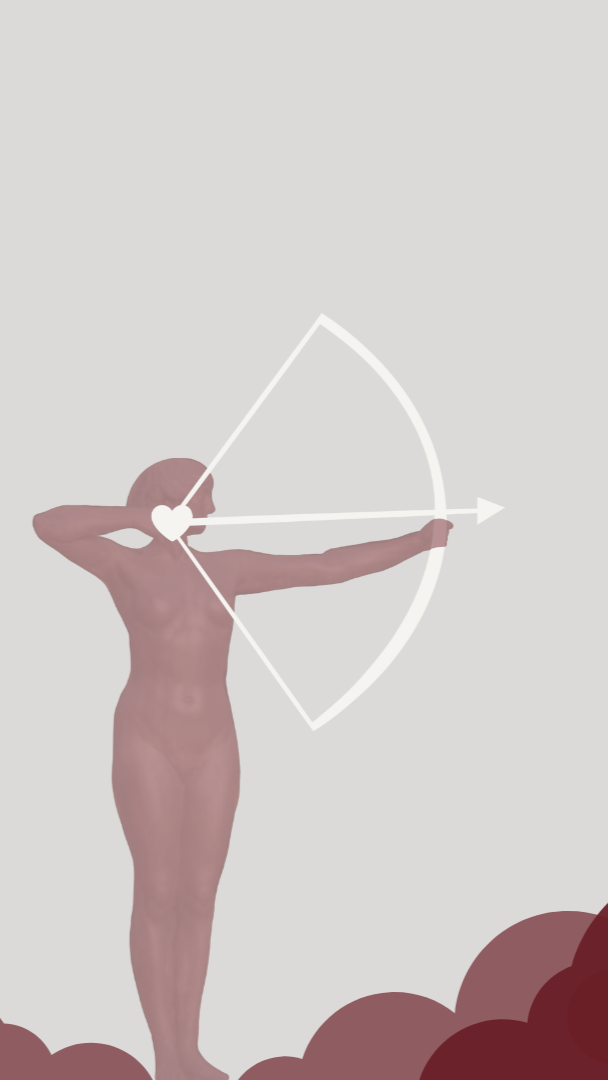
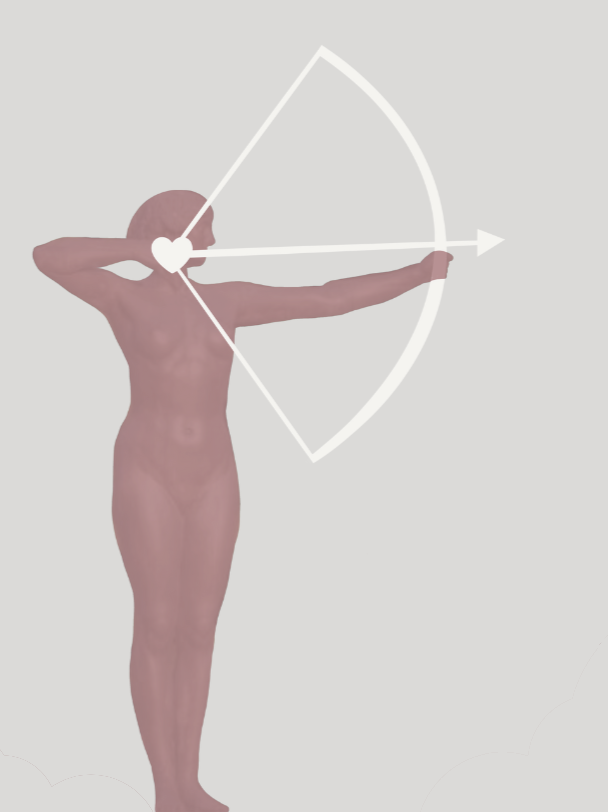
small fixes

diff --git a/fe/lib/quiz_view.dart b/fe/lib/quiz_view.dart
@@ -192,67 +192,67 @@ class _QuizViewScreenState extends State<QuizViewScreen> {
       final correctAnswerIndex = question.validAnswerIndex;
 
       return SingleChildScrollView(
-        child: Column(
-          children: [
-            SizedBox(
-              width: double.infinity,
-              height: 200,
-              child: Image.network(
-                question.imageUrl,
-                fit: BoxFit.cover,
-                errorBuilder: (context, error, stackTrace) {
-                  return Container(
-                    color: Colors.grey[300],
-                    child: const Icon(Icons.broken_image, size: 50),
-                  );
-                },
-              ),
-            ),
-            Padding(
-              padding: const EdgeInsets.all(16),
-              child: Column(
-                children: [
-                  Text(
-                    question.question,
-                    style: const TextStyle(
-                      fontSize: 18,
-                      fontWeight: FontWeight.bold,
-                      color: Color(0xFF6B1D27),
-                    ),
-                    textAlign: TextAlign.center,
+        child: Padding(
+          padding: EdgeInsets.fromLTRB(16, 16, 16, 0),
+          child: Column(
+            children: [
+              Padding(
+                padding: const EdgeInsets.symmetric(vertical: 20),
+                child: Container(
+                  width: double.infinity,
+                  height: 200,
+                  child: Image.network(
+                    question.imageUrl,
+                    fit: BoxFit.cover,
+                    errorBuilder: (context, error, stackTrace) {
+                      return Container(
+                        color: Colors.grey[300],
+                        child: const Icon(Icons.broken_image, size: 50),
+                      );
+                    },
                   ),
-
-                  const SizedBox(height: 24),
-
-                  ...List.generate(question.answers.length, (index) {
-                    final isSelected = _selectedAnswer == index;
-                    final isCorrect = index == correctAnswerIndex;
-
-                    return Padding(
-                      padding: const EdgeInsets.only(bottom: 12),
-                      child: AnswerOption(
-                        letter: String.fromCharCode(65 + index),
-                        text: question.answers[index],
-                        isSelected: isSelected,
-                        isCorrect: isCorrect,
-                        hasAnswered: _hasAnswered,
-                        onTap: (_hasAnswered || _isCompleted)
-                            ? null
-                            : () => _checkAnswer(index),
-                      ),
-                    );
-                  }),
-
-                  const SizedBox(height: 16),
-
-                  FunFactCard(
-                    funFact: question.curiocity,
-                    wikipediaUrl: 'https://visitbydgoszcz.pl/pl/',
-                  ),
-                ],
+                ),
               ),
-            ),
-          ],
+
+              Text(
+                question.question,
+                style: const TextStyle(
+                  fontSize: 18,
+                  fontWeight: FontWeight.bold,
+                  color: Color(0xFF6B1D27),
+                ),
+                textAlign: TextAlign.center,
+              ),
+
+              const SizedBox(height: 24),
+
+              ...List.generate(question.answers.length, (index) {
+                final isSelected = _selectedAnswer == index;
+                final isCorrect = index == correctAnswerIndex;
+
+                return Padding(
+                  padding: const EdgeInsets.only(bottom: 12),
+                  child: AnswerOption(
+                    letter: String.fromCharCode(65 + index),
+                    text: question.answers[index],
+                    isSelected: isSelected,
+                    isCorrect: isCorrect,
+                    hasAnswered: _hasAnswered,
+                    onTap: (_hasAnswered || _isCompleted)
+                        ? null
+                        : () => _checkAnswer(index),
+                  ),
+                );
+              }),
+
+              const SizedBox(height: 16),
+
+              FunFactCard(
+                funFact: question.curiocity,
+                wikipediaUrl: 'https://visitbydgoszcz.pl/pl/',
+              ),
+            ],
+          ),
         ),
       );
     }
@@ -260,46 +260,46 @@ class _QuizViewScreenState extends State<QuizViewScreen> {
     // If the step is NOT a quiz → Display task-style screen
     final step = _stepData as api.Task; // Guaranteed not null here
     return SingleChildScrollView(
-      child: Column(
-        children: [
-          SizedBox(
-            width: double.infinity,
-            height: 200,
-            child: Image.network(
-              step.imageUrl,
-              fit: BoxFit.cover,
-              errorBuilder: (context, error, stackTrace) {
-                return Container(
-                  color: Colors.grey[300],
-                  child: const Icon(Icons.broken_image, size: 50),
-                );
-              },
-            ),
-          ),
-          Padding(
-            padding: const EdgeInsets.all(16),
-            child: Column(
-              children: [
-                Text(
-                  step.task,
-                  style: const TextStyle(
-                    fontSize: 18,
-                    fontWeight: FontWeight.bold,
-                    color: Color(0xFF6B1D27),
-                  ),
-                  textAlign: TextAlign.center,
+      child: Padding(
+        padding: EdgeInsets.fromLTRB(16, 16, 16, 0),
+        child: Column(
+          children: [
+            Padding(
+              padding: const EdgeInsets.symmetric(vertical: 20),
+              child: Container(
+                width: double.infinity,
+                height: 200,
+                child: Image.network(
+                  step.imageUrl,
+                  fit: BoxFit.cover,
+                  errorBuilder: (context, error, stackTrace) {
+                    return Container(
+                      color: Colors.grey[300],
+                      child: const Icon(Icons.broken_image, size: 50),
+                    );
+                  },
                 ),
-
-                const SizedBox(height: 24),
-
-                FunFactCard(
-                  funFact: step.curiocity ?? "Interesting place fact!",
-                  wikipediaUrl: 'https://visitbydgoszcz.pl/pl/',
-                ),
-              ],
+              ),
             ),
-          ),
-        ],
+
+            Text(
+              step.task ?? "No task available.",
+              style: const TextStyle(
+                fontSize: 18,
+                fontWeight: FontWeight.bold,
+                color: Color(0xFF6B1D27),
+              ),
+              textAlign: TextAlign.center,
+            ),
+
+            const SizedBox(height: 24),
+
+            FunFactCard(
+              funFact: step.curiocity ?? "Interesting place fact!",
+              wikipediaUrl: 'https://visitbydgoszcz.pl/pl/',
+            ),
+          ],
+        ),
       ),
     );
   }

diff --git a/fe/lib/preferences/preferences_screen.dart b/fe/lib/preferences/preferences_screen.dart
@@ -80,8 +80,7 @@ class PreferencesScreen extends StatelessWidget {
 class InitialPage extends StatelessWidget {
   const InitialPage({super.key});
   static const String _kStampFramePath = 'assets/stamp.svg';
-  static const String _kDecorativePngPath =
-      'assets/your_image.png'; // Replace with your PNG path
+  static const String _kDecorativePngPath = 'assets/luczniczka.png';
   static const Color _kBackgroundColor = Color(0xFFdbdad8);
 
   @override
@@ -90,49 +89,71 @@ class InitialPage extends StatelessWidget {
 
     return Container(
       color: _kBackgroundColor,
-      child: Column(
-        children: <Widget>[
-          Expanded(
-            child: Center(
-              child: SingleChildScrollView(
-                padding: const EdgeInsets.symmetric(
-                  horizontal: 20,
-                  vertical: 20,
-                ),
-                child: Column(
-                  mainAxisAlignment: MainAxisAlignment.center,
-                  crossAxisAlignment:
-                      CrossAxisAlignment.center, // Center horizontally
-                  children: [
-                    const Text(
-                      "Tutaj historia łączy…\n a my podpowiadamy z kim",
-                      textAlign: TextAlign.center, // Center the text
-                      style: TextStyle(
-                        fontSize: 32,
-                        fontWeight: FontWeight.bold,
-                        color: Color(0xFF6B1D27),
-                        letterSpacing: 2,
-                      ),
-                    ),
-                    const SizedBox(height: 30),
-                    Header(text: 'CZEGO DZIŚ SZUKASZ'),
-                    StampedButton(
-                      text: 'SZUKAM PARY',
-                      onPressed: () => cubit.startPreferencesFlow(),
-                      svgAssetPath: _kStampFramePath,
-                    ),
-                    const SizedBox(height: 30),
-                    StampedButton(
-                      text: 'MAM PARTNERA/\nPARTNERKĘ',
-                      onPressed: () => cubit.startPreferencesNoSwipe(),
-                      svgAssetPath: _kStampFramePath,
-                    ),
-                  ],
+      child: Center(
+        child: SingleChildScrollView(
+          padding: const EdgeInsets.symmetric(horizontal: 20, vertical: 20),
+          child: Column(
+            crossAxisAlignment: CrossAxisAlignment.center,
+            children: [
+
+              /// ---------------- FULL-WIDTH MAIN TITLE ----------------
+              const Text(
+                "Tutaj historia łączy…\n a my podpowiadamy z kim",
+                textAlign: TextAlign.center,
+                style: TextStyle(
+                  fontSize: 32,
+                  fontWeight: FontWeight.bold,
+                  color: Color(0xFF6B1D27),
+                  letterSpacing: 2,
                 ),
               ),
-            ),
+
+              /// ---------------- FULL-WIDTH HEADER ----------------
+              const Header(text: 'CZEGO DZIŚ SZUKASZ?'),
+
+              /// ---------------- LEFT IMAGE + RIGHT BUTTONS ----------------
+              Row(
+                mainAxisAlignment: MainAxisAlignment.center,
+                crossAxisAlignment: CrossAxisAlignment.start,
+                children: [
+                  /// LEFT PNG
+                    Padding(
+                      padding: const EdgeInsets.symmetric(vertical:5),
+                      child: Image.asset(
+                        _kDecorativePngPath,
+                        fit: BoxFit.contain,
+                        height: 320,
+                      ),
+                    ),
+
+                  /// RIGHT BUTTON AREA
+                  Expanded(
+                    flex: 1,
+                    child: Column(
+                      crossAxisAlignment: CrossAxisAlignment.center,
+                      children: [
+
+                        StampedButton(
+                          text: 'SZUKAM PARY',
+                          onPressed: () => cubit.startPreferencesFlow(),
+                          svgAssetPath: _kStampFramePath,
+                        ),
+
+                        const SizedBox(height: 30),
+
+                        StampedButton(
+                          text: 'MAM PARTNERA/\nPARTNERKĘ',
+                          onPressed: () => cubit.startPreferencesNoSwipe(),
+                          svgAssetPath: _kStampFramePath,
+                        ),
+                      ],
+                    ),
+                  ),
+                ],
+              ),
+            ],
           ),
-        ],
+        ),
       ),
     );
   }

diff --git a/fe/lib/quiz/fun_fact.dart b/fe/lib/quiz/fun_fact.dart
@@ -44,7 +44,7 @@ class FunFactCard extends StatelessWidget {
   @override
   Widget build(BuildContext context) {
     return Padding(
-      padding: EdgeInsets.only(bottom: 50),
+      padding: EdgeInsets.all(0),
       child: SizedBox(
         height: 250,
         child: Stack(
